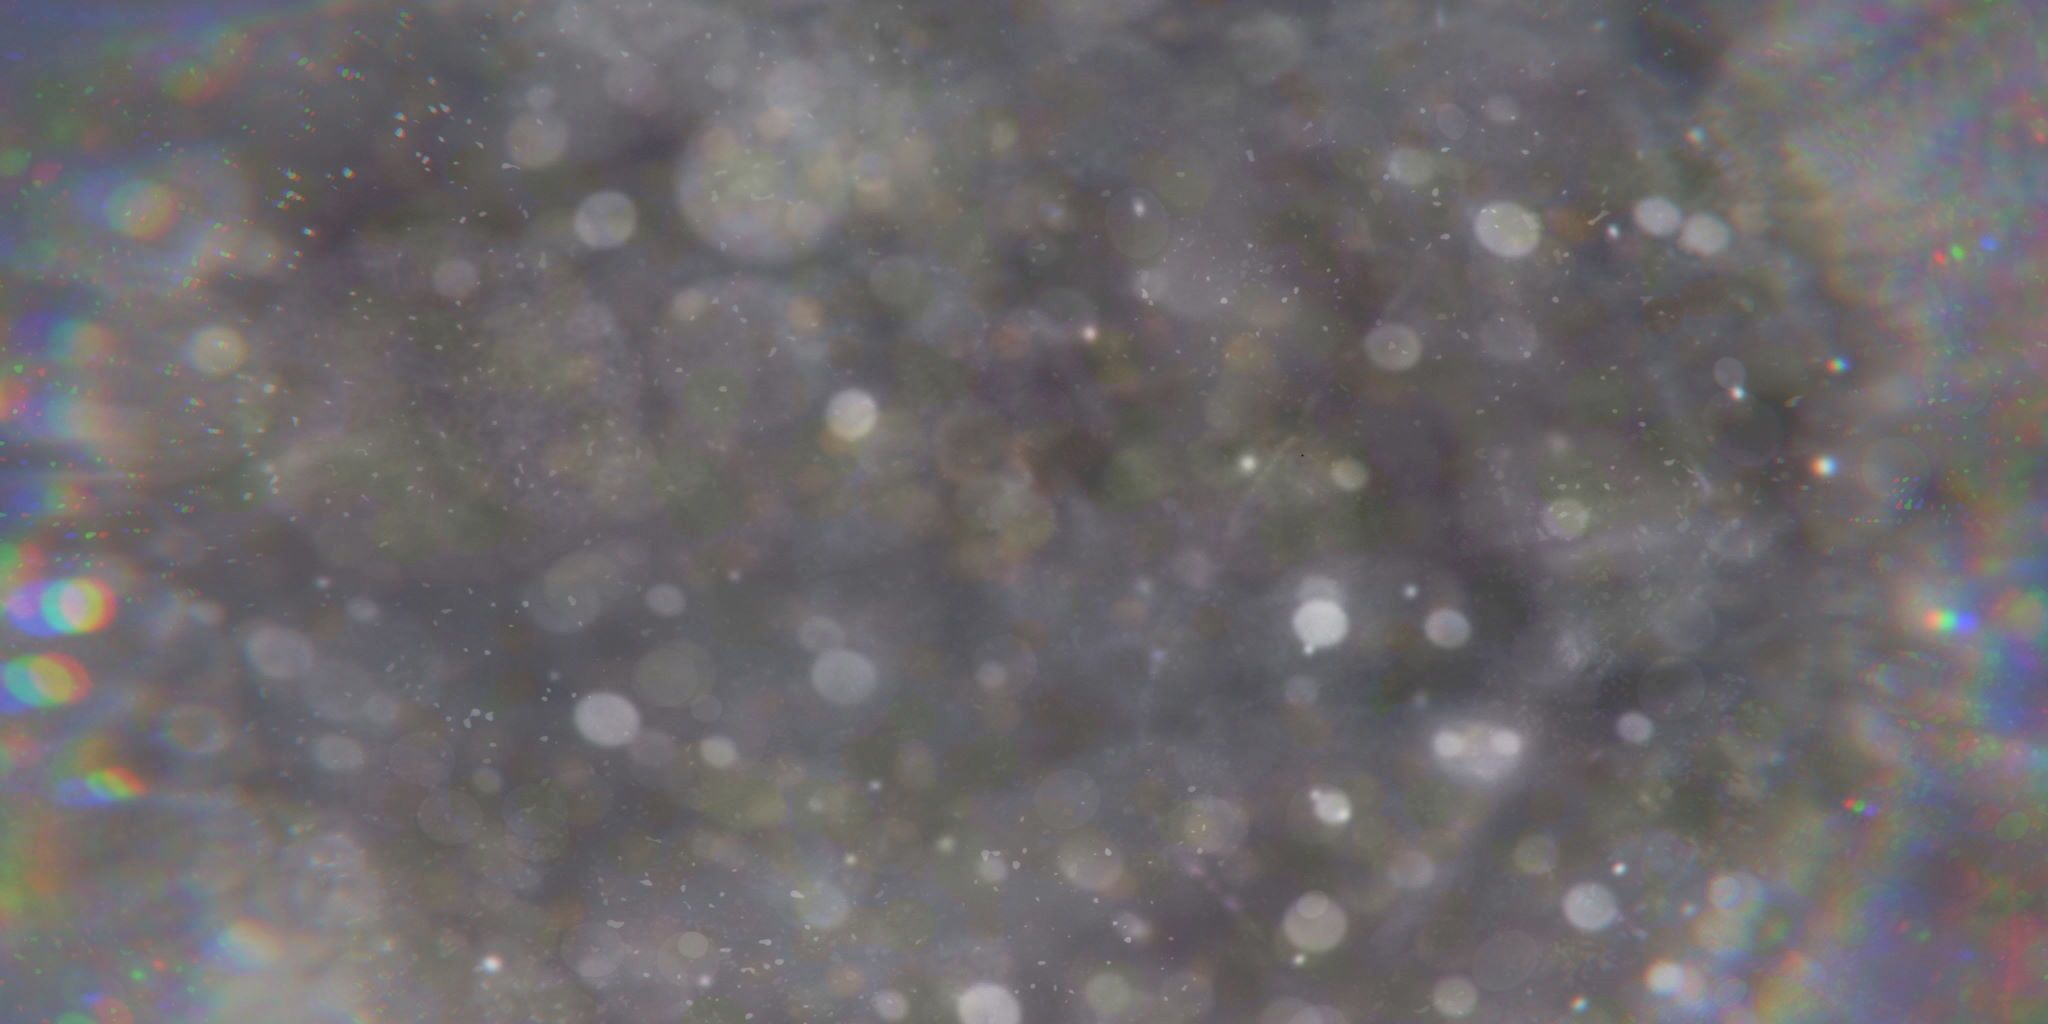
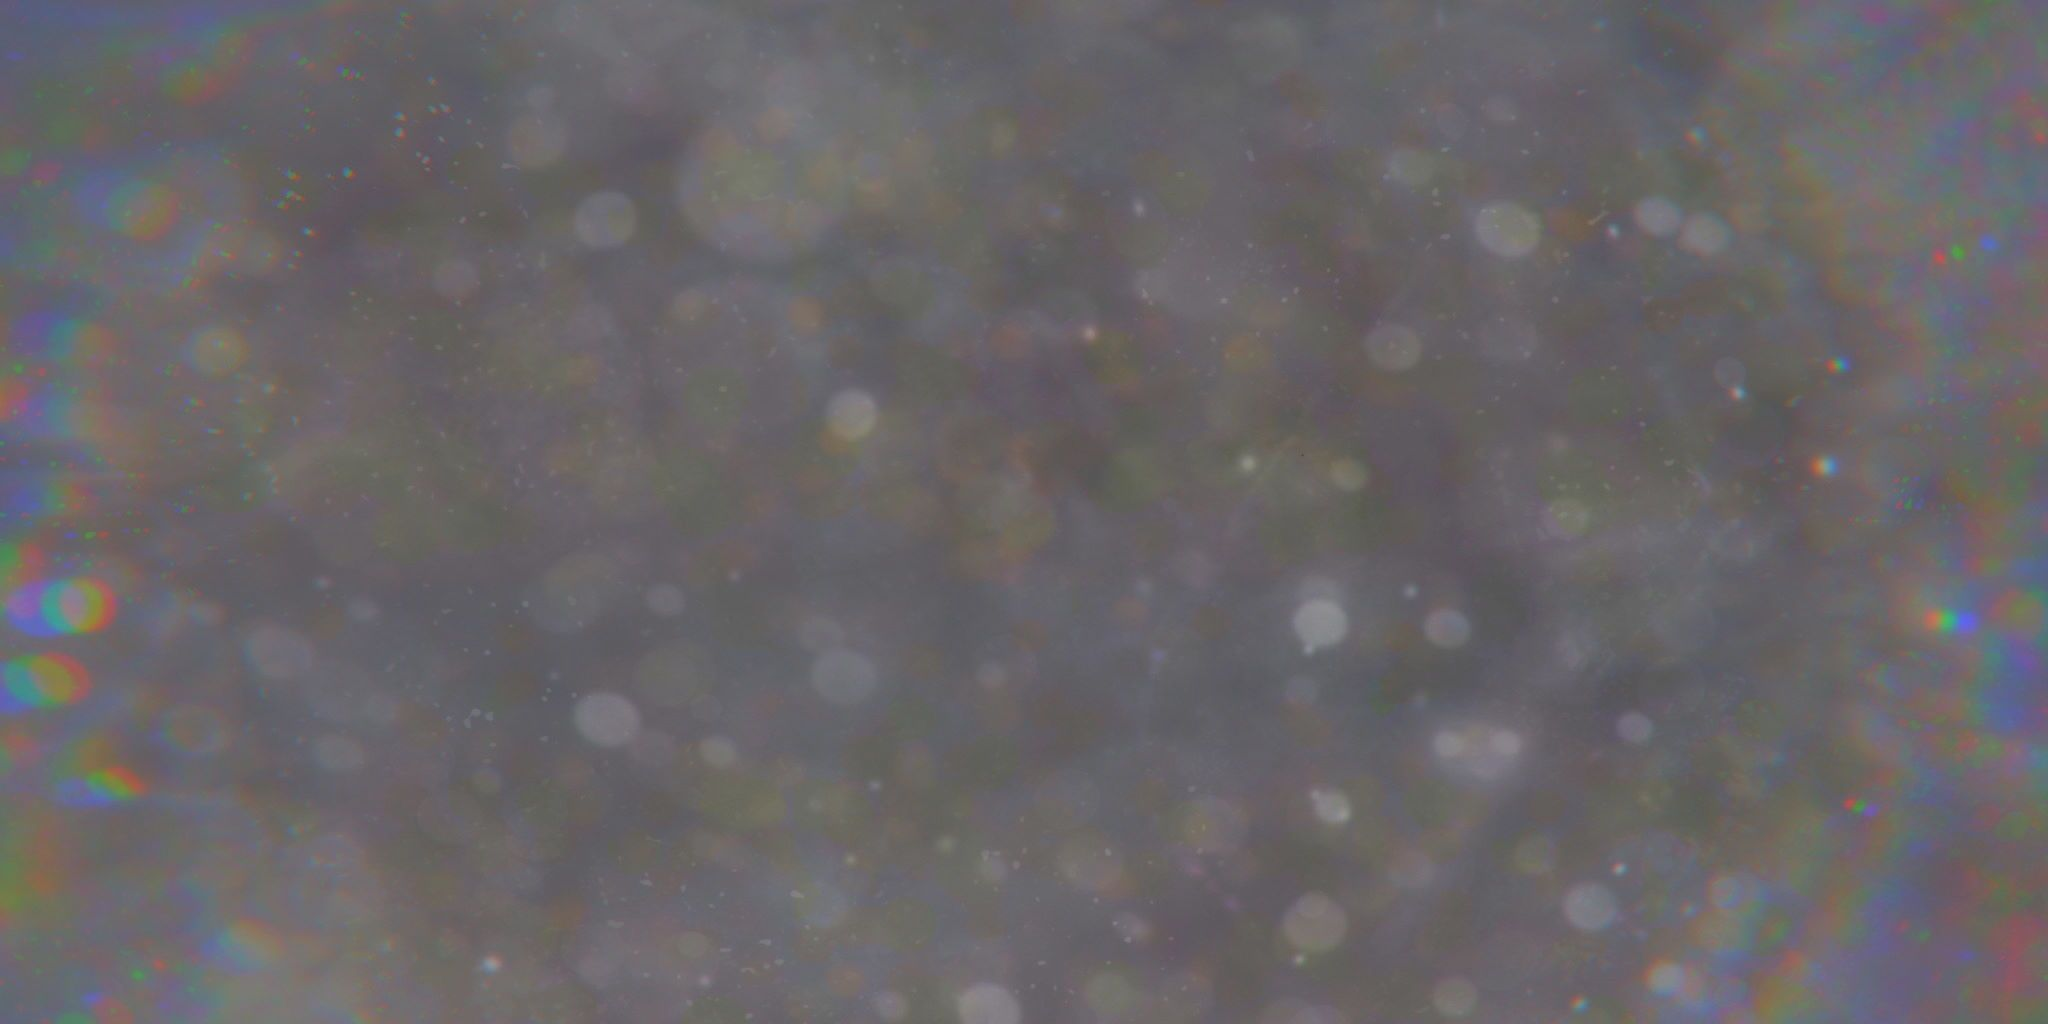
- Fixed skybox - Use map for uniform lookup - Minor graphics tweaks

diff --git a/app/src/shaders.js b/app/src/shaders.js
@@ -56,27 +56,27 @@ class Shader {
     }
 
     setInt(id, value) {
-        gl.uniform1i(gl.getUniformLocation(this.program, id), value);
+        gl.uniform1i(this.getUniformLocation(id), value);
     }
 
     setMat4(id, mat) {
-        gl.uniformMatrix4fv(gl.getUniformLocation(this.program, id), gl.FALSE, mat);
+        gl.uniformMatrix4fv(this.getUniformLocation(id), gl.FALSE, mat);
     }
 
     setFloat(id, value) {
-        gl.uniform1f(gl.getUniformLocation(this.program, id), value);
+        gl.uniform1f(this.getUniformLocation(id), value);
     }
 
     setVec2(id, vec) {
-        gl.uniform2f(gl.getUniformLocation(this.program, id), vec[0], vec[1]);
+        gl.uniform2f(this.getUniformLocation(id), vec[0], vec[1]);
     }
 
     setVec3(id, vec) {
-        gl.uniform3f(gl.getUniformLocation(this.program, id), vec[0], vec[1], vec[2]);
+        gl.uniform3f(this.getUniformLocation(id), vec[0], vec[1], vec[2]);
     }
 
     setVec4(id, vec) {
-        gl.uniform4f(gl.getUniformLocation(this.program, id), vec[0], vec[1], vec[2], vec[3]);
+        gl.uniform4f(this.getUniformLocation(id), vec[0], vec[1], vec[2], vec[3]);
     }
 }
 

diff --git a/app/src/material.js b/app/src/material.js
@@ -45,10 +45,10 @@ class Material {
                 return;
             }
             const tex = m.resources.get(name);
-            if (m.geomType === 3) {
-                tex.setTextureWrapMode(gl.CLAMP_TO_EDGE);
-            }
             tex.bind(gl.TEXTURE0 + texUnit);
+            // if (m.geomType === 3) {
+            //    tex.setTextureWrapMode(gl.CLAMP_TO_EDGE);
+            // }
             texUnit++;
         });
     }
